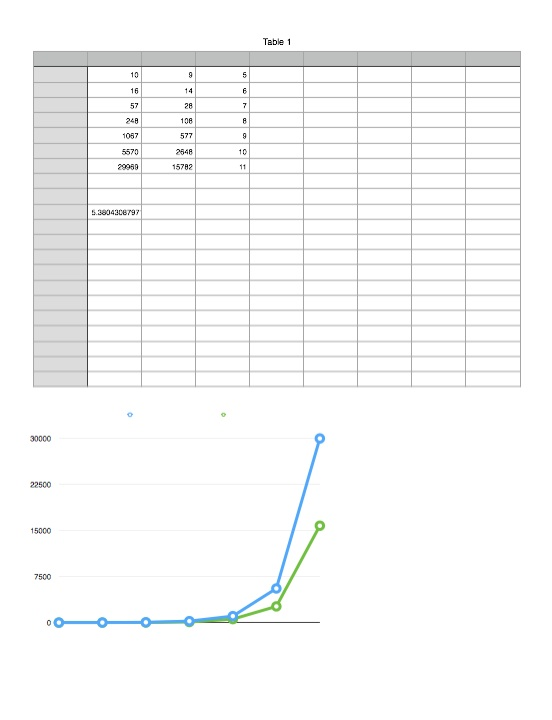
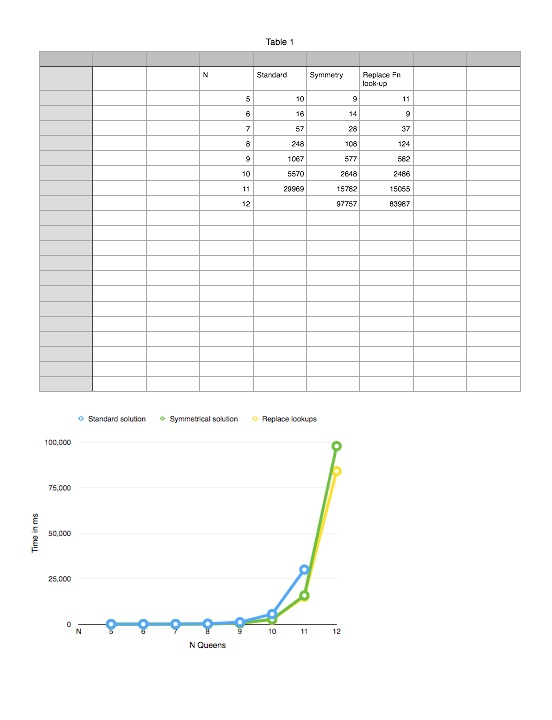
Remove lookups to shave time

diff --git a/src/solvers.js b/src/solvers.js
@@ -111,8 +111,8 @@ window.findNQueensSolution = function(n) {
         curBoard.togglePiece(curRow, curCol);
         if (!(
           curBoard.hasRowConflictAt(curRow)
-          || curBoard.hasMajorDiagonalConflictAt(curBoard._getFirstRowColumnIndexForMajorDiagonalOn(curRow, curCol))
-          || curBoard.hasMinorDiagonalConflictAt(curBoard._getFirstRowColumnIndexForMinorDiagonalOn(curRow, curCol)))){
+          || curBoard.hasMajorDiagonalConflictAt(curCol - curRow)
+          || curBoard.hasMinorDiagonalConflictAt(curRow + curCol))){
           placeElemInRow(curCol + 1);
         }
         curBoard.togglePiece(curRow, curCol);
@@ -142,8 +142,8 @@ window.countNQueensSolutions = function(n) {
       curBoard.togglePiece(curRow, curCol);
       if (!(
           curBoard.hasRowConflictAt(curRow)
-          || curBoard.hasMajorDiagonalConflictAt(curBoard._getFirstRowColumnIndexForMajorDiagonalOn(curRow, curCol))
-          || curBoard.hasMinorDiagonalConflictAt(curBoard._getFirstRowColumnIndexForMinorDiagonalOn(curRow, curCol)))){
+          || curBoard.hasMajorDiagonalConflictAt(curCol - curRow)
+          || curBoard.hasMinorDiagonalConflictAt(curRow + curCol))) {
         placeElemInRow(curCol + 1);
       }
       curBoard.togglePiece(curRow, curCol);
@@ -157,18 +157,18 @@ window.countNQueensSolutions = function(n) {
     curBoard.togglePiece(i, 0);
   }
 
-  // doubling to account for symmetry
+  // double to account for symmetry
   if(n > 1) {
     solutionCount *= 2;
 
-    // if odd, recurse over placement in median row
+    // if odd, place in median row of column 0 and recurse over other columns
     if((n % 2) === 1) {
       curBoard.togglePiece(Math.ceil(n/2), 0);
       placeElemInRow(1);
       curBoard.togglePiece(Math.ceil(n/2), 0);
     }
   } else {
-    // special case: n === 1  --> loop over first column not initiated
+    // special case: n === 1 or 0  --> loop over first column not initiated
     solutionCount = 1;
   }
 
@@ -177,41 +177,51 @@ window.countNQueensSolutions = function(n) {
 };
 
 
-// Time Profiling:
-var now = new Date();
+// // Time Profiling:
+// var now = new Date();
 
-countNQueensSolutions(5);
+// countNQueensSolutions(5);
 
-console.log('5', (new Date() - now));
+// console.log('5', (new Date() - now));
 
-now = new Date();
+// now = new Date();
 
-countNQueensSolutions(6);
+// countNQueensSolutions(6);
 
-console.log('6', (new Date() - now));
-now = new Date();
+// console.log('6', (new Date() - now));
 
-countNQueensSolutions(7);
+// now = new Date();
 
-console.log('7', (new Date() - now));
-now = new Date();
+// countNQueensSolutions(7);
 
-countNQueensSolutions(8);
+// console.log('7', (new Date() - now));
 
-console.log('8', (new Date() - now));
-now = new Date();
+// now = new Date();
 
-countNQueensSolutions(9);
+// countNQueensSolutions(8);
 
-console.log('9', (new Date() - now));
-now = new Date();
+// console.log('8', (new Date() - now));
 
-countNQueensSolutions(10);
+// now = new Date();
 
-console.log('10', (new Date() - now));
+// countNQueensSolutions(9);
 
-now = new Date();
+// console.log('9', (new Date() - now));
 
-console.log(countNQueensSolutions(11));
+// now = new Date();
 
-console.log('11', (new Date() - now));
+// countNQueensSolutions(10);
+
+// console.log('10', (new Date() - now));
+
+// now = new Date();
+
+// console.log(countNQueensSolutions(11));
+
+// console.log('11', (new Date() - now));
+
+// now = new Date();
+
+// console.log(countNQueensSolutions(12));
+
+// console.log('12', (new Date() - now));
